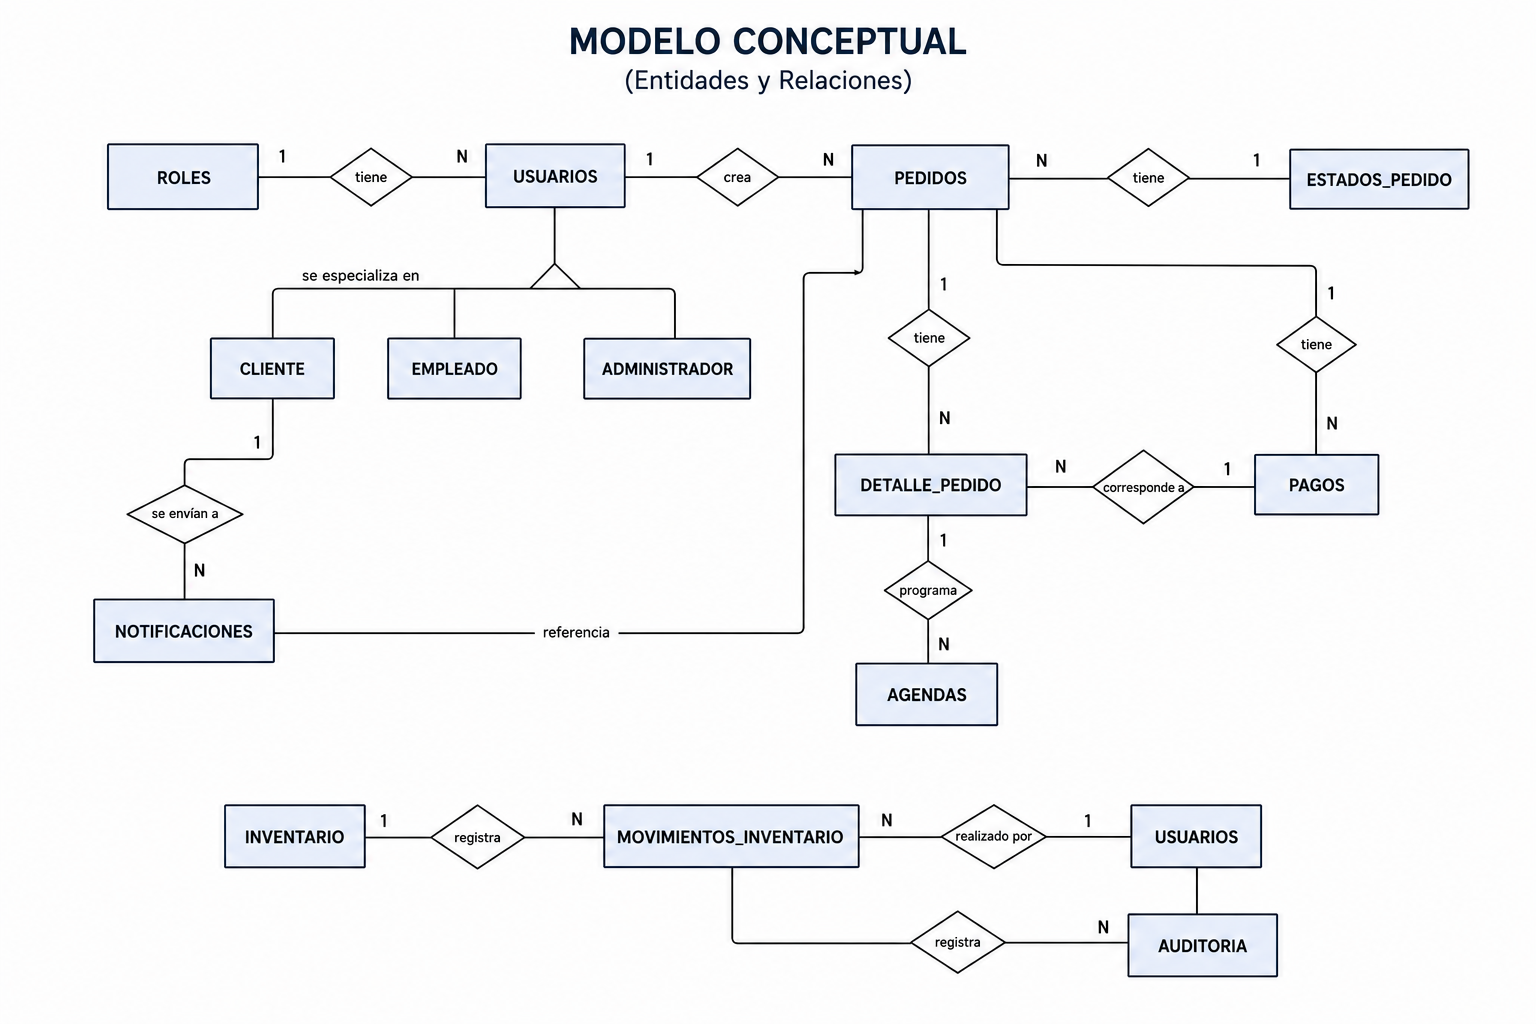
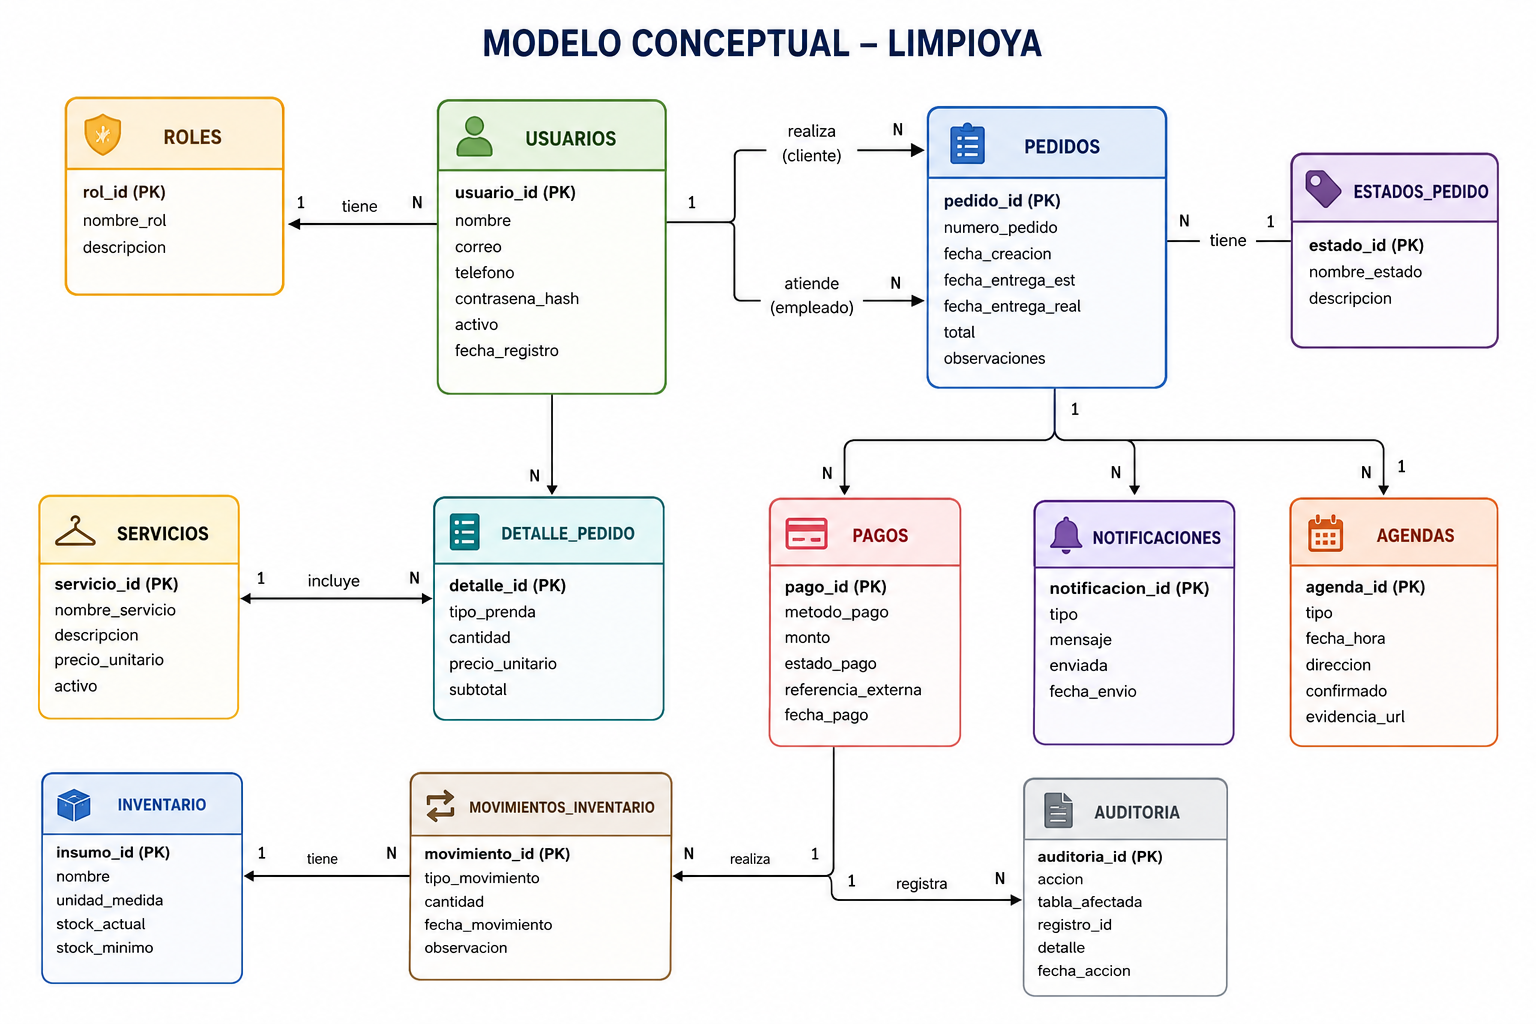
Correcion objetivos, diagrama

diff --git a/index.html b/index.html
@@ -187,31 +187,27 @@
       <div class="objetivos-grid">
         <div class="objetivo-item reveal">
           <span class="objetivo-num">01</span>
-          <p>Permitir a los empleados registrar pedidos detallando prendas, servicios solicitados y fecha estimada de entrega.</p>
+          <p>Analizar los procesos operativos y las necesidades de las lavanderías para identificar los requerimientos funcionales y no funcionales del sistema.</p>
         </div>
         <div class="objetivo-item reveal">
           <span class="objetivo-num">02</span>
-          <p>Implementar un módulo de seguimiento que permita al cliente consultar el estado de su pedido: en proceso, listo o entregado.</p>
+          <p>Diseñar la arquitectura, la base de datos, la interfaz de usuario y los modelos necesarios para garantizar una solución organizada y escalable.</p>
         </div>
         <div class="objetivo-item reveal">
           <span class="objetivo-num">03</span>
-          <p>Generar notificaciones automáticas que informen al cliente sobre cambios en el estado y la fecha de entrega de su pedido.</p>
+          <p>Desarrollar los módulos del sistema que permitan la gestión de pedidos, el seguimiento de estados, la administración de usuarios y los servicios ofrecidos por la lavandería.</p>
         </div>
         <div class="objetivo-item reveal">
           <span class="objetivo-num">04</span>
-          <p>Ofrecer reportes y estadísticas de ingresos, clientes frecuentes y volumen de pedidos como apoyo a la toma de decisiones.</p>
+          <p>Integrar las funcionalidades complementarias del sistema, como las notificaciones, los pagos en línea y la programación de recogida y entrega de prendas.</p>
         </div>
         <div class="objetivo-item reveal">
           <span class="objetivo-num">05</span>
-          <p>Integrar un módulo de pagos en línea compatible con pasarelas locales colombianas (PSE, tarjeta y billetera digital).</p>
+          <p>Realizar pruebas funcionales y de integración para verificar el correcto funcionamiento del sistema y corregir los errores identificados.</p>
         </div>
         <div class="objetivo-item reveal">
           <span class="objetivo-num">06</span>
-          <p>Generar de forma automática comprobantes de pago y facturas electrónicas al completar cada transacción.</p>
-        </div>
-        <div class="objetivo-item reveal">
-          <span class="objetivo-num">07</span>
-          <p>Implementar un módulo de agenda para programar la recogida y entrega de prendas a domicilio.</p>
+          <p>Implementar la aplicación web en un entorno de ejecución y validar su funcionamiento para garantizar que cumpla con los requerimientos establecidos y el objetivo general.</p>
         </div>
       </div>
     </div>